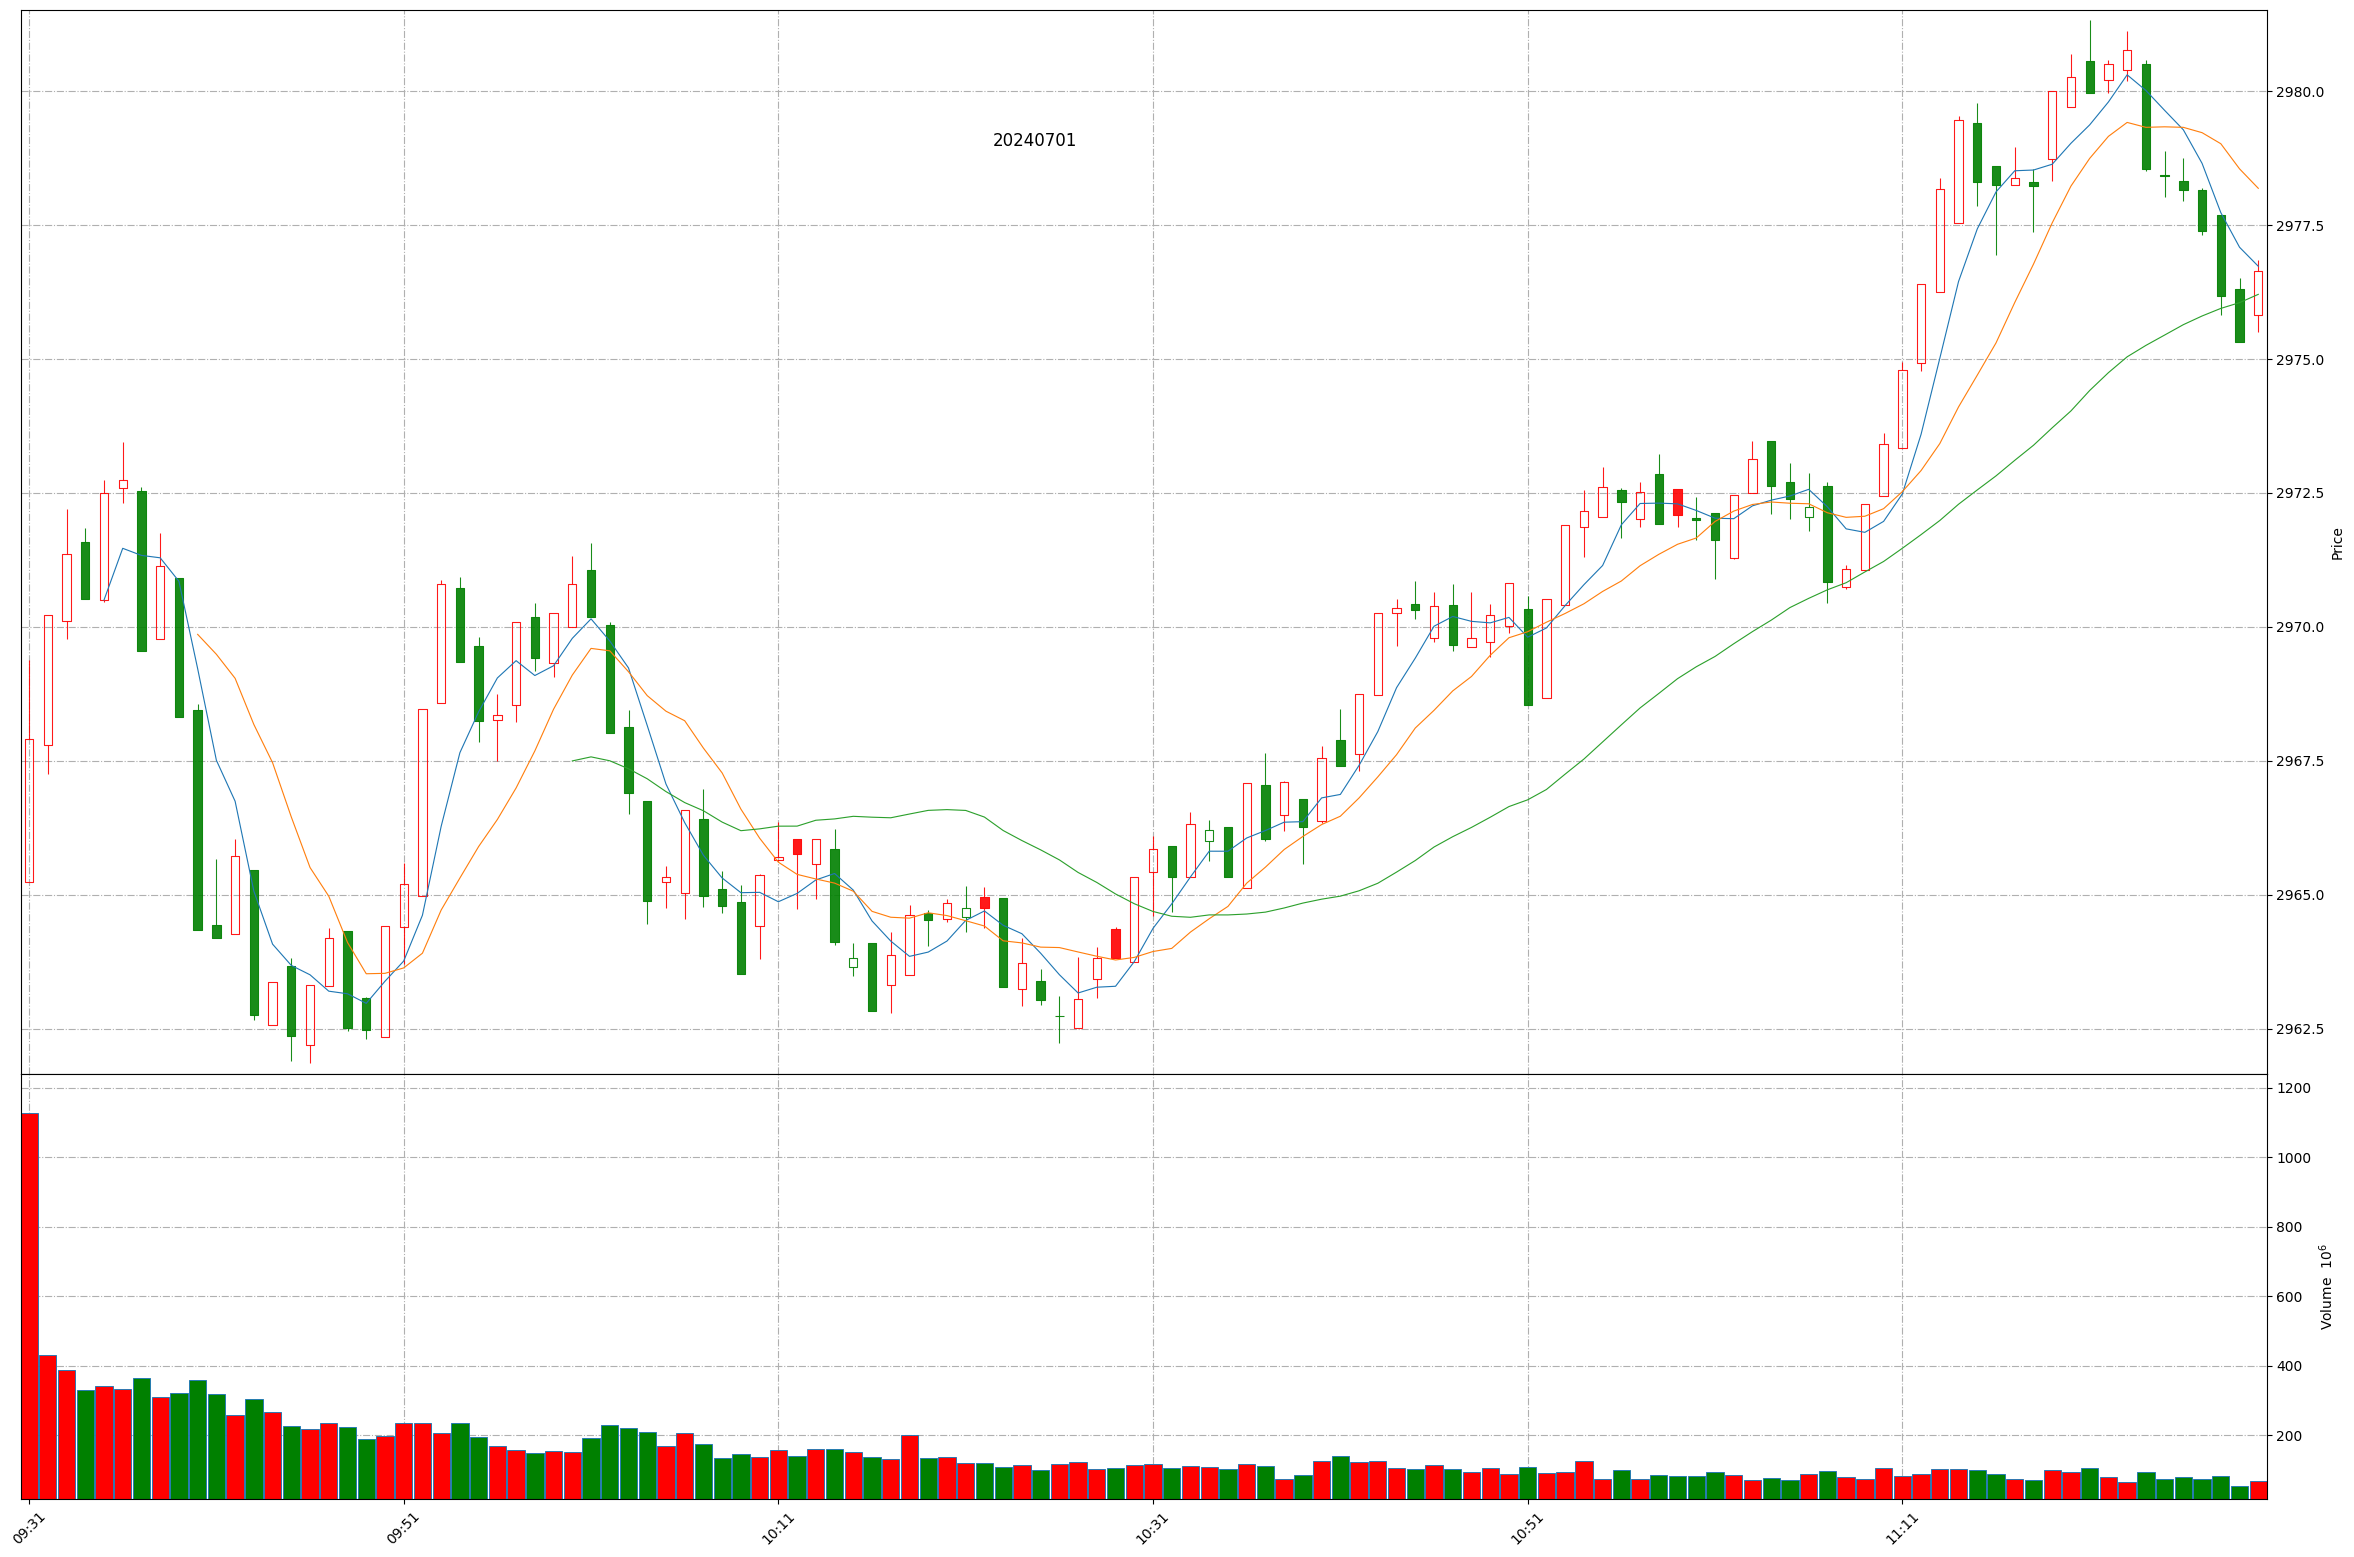
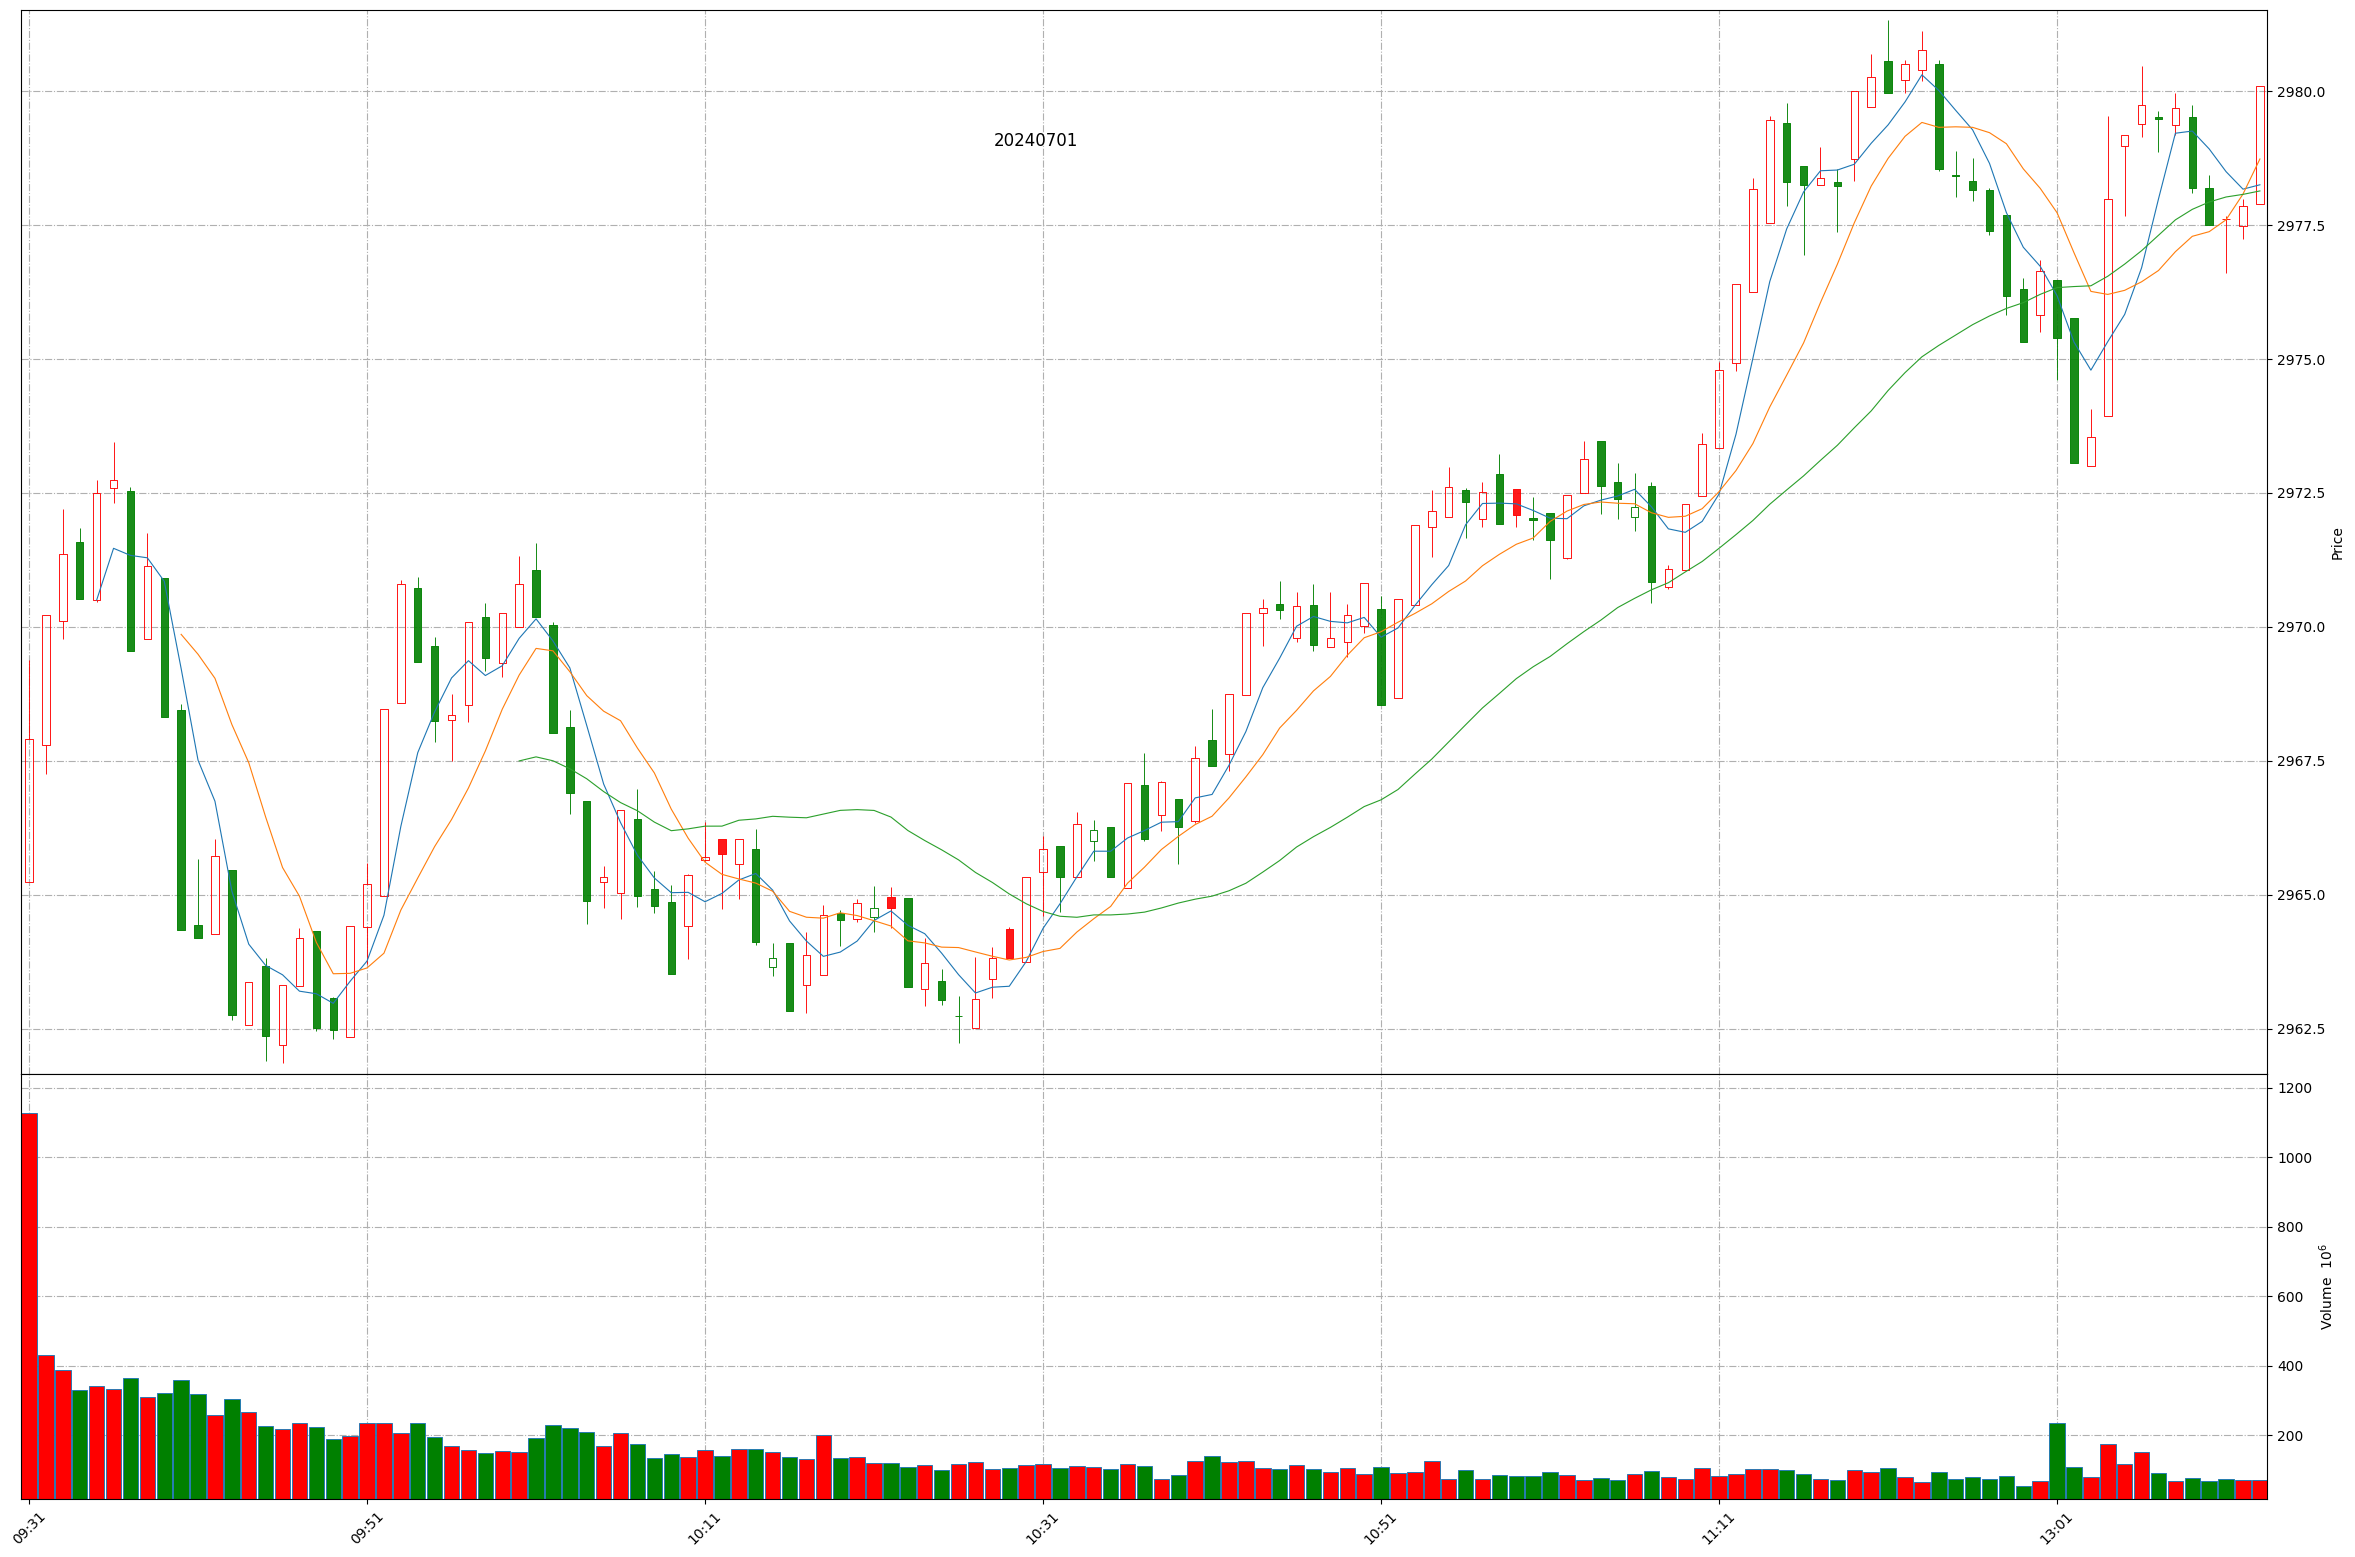
Github action update at 2024-07-01 13:13:13.

diff --git a/README.md b/README.md
@@ -1,11 +1,11 @@
 
 # Daily-A-share-market-quotes 每日 A 股指数（5min 更新）- 20240701
 
-### 上证指数 20240701 11:36
+### 上证指数 20240701 13:13
 ![](./fig/2024/7/20240701-sh000001.png)
 
-### 深证成指 20240701 11:36
+### 深证成指 20240701 13:13
 ![](./fig/2024/7/20240701-sz399001.png)
 
-### 北证50 20240701 11:36
+### 北证50 20240701 13:13
 ![](./fig/2024/7/20240701-bj899050.png)
